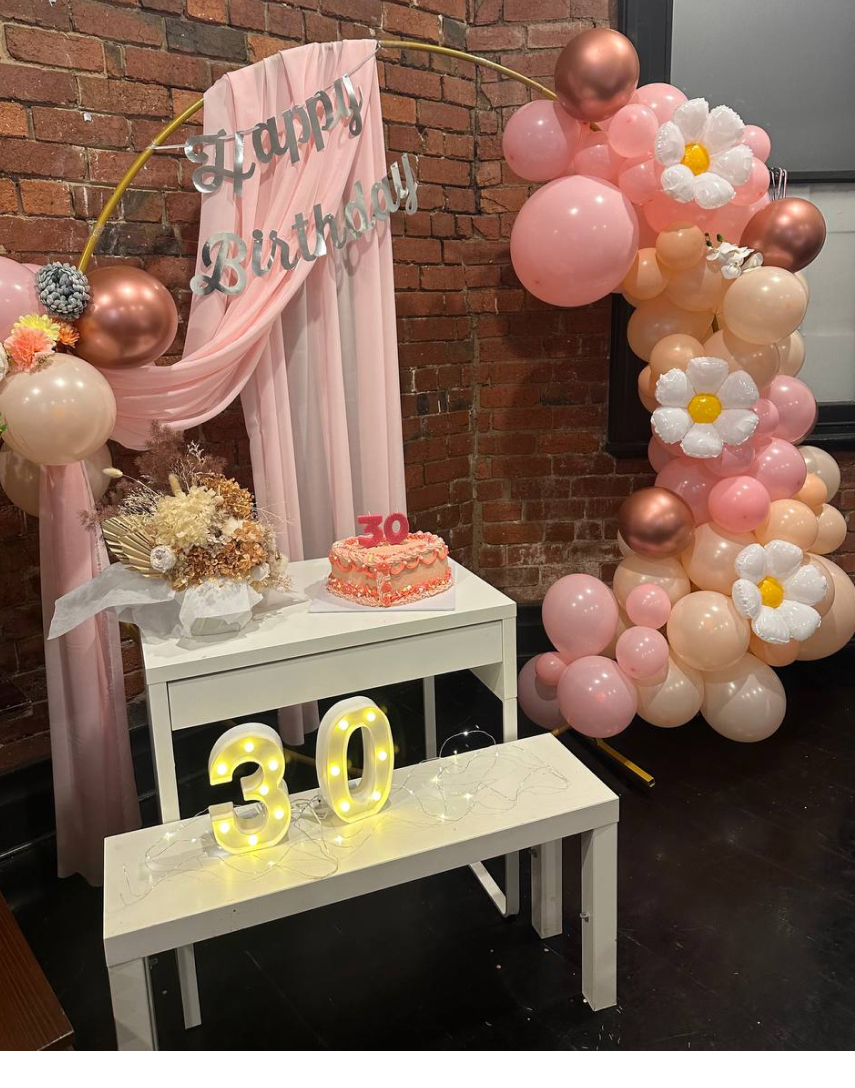
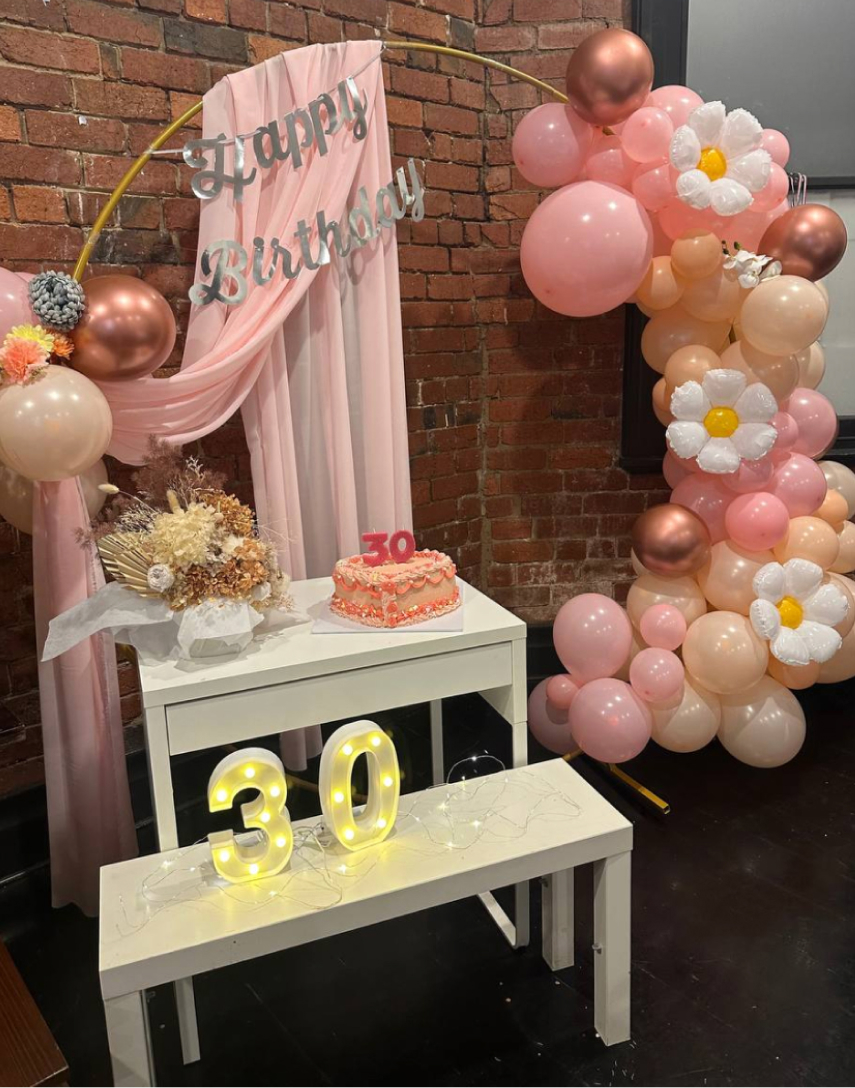
bp image update

diff --git a/index.html b/index.html
@@ -477,23 +477,7 @@
             </div>
             <!-- portfolio-item end -->
 
-             <!-- portfolio-item start -->
-             <div class="col-md-4 col-sm-4 col-xs-12 portfolio-item filter-web">
-              <div class="single-awesome-project">
-                <div class="awesome-img">
-                  <a href="#"><img src="assets/img/portfolio/p10.jpg" alt="" /></a>
-                  <div class="add-actions text-center">
-                    <div class="project-dec">
-                      <a class="portfolio-lightbox" data-gallery="myGallery" href="assets/img/portfolio/p10.jpg">
-                        <h4>Birthday Party</h4>
-                        <span>Private Events</span>
-                      </a>
-                    </div>
-                  </div>
-                </div>
-              </div>
-            </div>
-            <!-- portfolio-item end -->
+          
 
         </div>
       </div>
